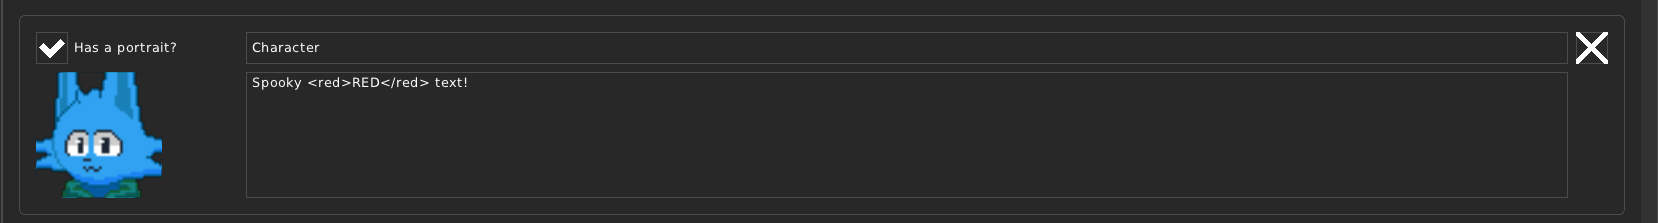
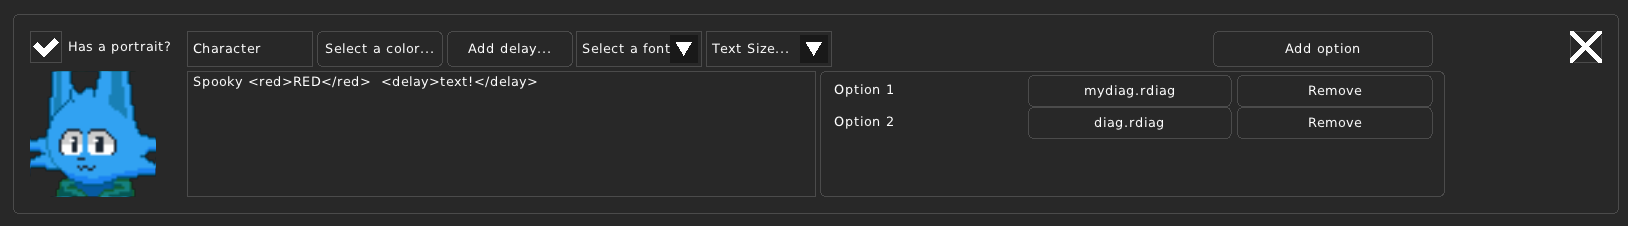
Documentation of new dialogue system additions and Project Settings additions

diff --git a/src/dialogueBalloon.cpp b/src/dialogueBalloon.cpp
@@ -140,28 +140,6 @@ void DialogueBalloon::draw() {
 
 		DrawTextureNPatch(uiTexture, info, rect, origin, 0.0f, WHITE);
 
-		if (finishedTyping && dialogue.lines.at(lineIndex).hasOptions) {
-			auto &line = dialogue.lines.at(lineIndex);
-
-			DrawTextureNPatch(uiTexture, info, optionsRect, origin, 0.0f, WHITE);
-
-			Vector2 optionTextPos = {optionsRect.x + 20, optionsRect.y + 20};
-			int i = 0;
-
-			for (auto &option : line.options) {
-				optionTextPos.y += (13 * 3) * i + (4 * i);
-
-				Color optionTextColor = WHITE;
-
-				if (hoveredOption == i) optionTextColor = YELLOW;
-
-				DrawTextEx(Game::getResources().getFont("LanaPixel"), option.title.c_str(), optionTextPos, 13 * 3, 1.0,
-						   optionTextColor);
-
-				i++;
-			}
-		}
-
 		if (dialogue.lines.at(lineIndex).hasPortrait) {
 			drawPortrait();
 		}
@@ -226,6 +204,28 @@ void DialogueBalloon::draw() {
 			Vector2 newMeasure = MeasureTextEx(Game::getResources().getFont(section.font),
 											   TextSubtext(text.c_str(), i, 1), section.textSize * 3, 1.0f);
 			charMeasure = newMeasure;
+		}
+
+		if (finishedTyping && dialogue.lines.at(lineIndex).hasOptions) {
+			auto &line = dialogue.lines.at(lineIndex);
+
+			DrawTextureNPatch(uiTexture, info, optionsRect, origin, 0.0f, WHITE);
+
+			Vector2 optionTextPos = {optionsRect.x + 20, optionsRect.y + 20};
+			int i = 0;
+
+			for (auto &option : line.options) {
+				optionTextPos.y += (13 * 3) * i + (4 * i);
+
+				Color optionTextColor = WHITE;
+
+				if (hoveredOption == i) optionTextColor = YELLOW;
+
+				DrawTextEx(Game::getResources().getFont("LanaPixel"), option.title.c_str(), optionTextPos, 13 * 3, 1.0,
+						   optionTextColor);
+
+				i++;
+			}
 		}
 	}
 }

diff --git a/docs/guide/resourcetypes/dialogue.rst b/docs/guide/resourcetypes/dialogue.rst
@@ -12,25 +12,34 @@ Example of a Dialogue file (.rdiag):
 .. code:: json
 
     {
-        "diag": [
-            [
-                "Xenith",
-                "I changed the dialogue!",
-                "0",
-                ""
-            ],
-            [
-                "Xenith",
-                "This is the second line!",
-                "0",
-                ""
-            ],
-            [
-                "Xenith",
-                "Content",
-                "0",
-                ""
-            ]
+        "diag":[
+            {
+                "characterName":"Chara",
+                "hasOptions":false,
+                "hasPortrait":false,
+                "imageId":"",
+                "options":[
+                    
+                ],
+                "text":"My dialogue <red>text!</red>"
+            },
+            {
+                "characterName":"Character",
+                "hasOptions":true,
+                "hasPortrait":true,
+                "imageId":"xenith-portrait.png",
+                "options":[
+                    {
+                        "name":"Option 1",
+                        "nextDialogue":"mydiag.rdiag"
+                    },
+                    {
+                        "name":"Option 2",
+                        "nextDialogue":"diag.rdiag"
+                    }
+                ],
+                "text":"Spooky <red>RED</red> text!"
+            }
         ]
     }
 
@@ -55,7 +64,23 @@ The "Add a new line" button will add a new line to this Dialogue.
 
 The "Has a portrait?" option sets whether this line will have a portrait image shown for it. If it is on, then you can select an image to be shown.
 
-You can also edit the Character name and the text content for the dialogue line. 
+You can also edit the Character name and the text content for the dialogue line. Dialogue text supports XML-like tags for formatting the text or achieving other effects. All tags must have a closing tag.
+
+* **Color tags:** - <lightgray>, <gray>, <darkgray>, <gold>, <yellow>, <orange>, <pink>, <red>, <maroon>, <green>, <lime>, <darkgreen>, <skyblue>, <blue>, <darkblue>, <purple>, <violet>, <darkpurple>, <beige>, <brown>, <darkbrown>, <magenta>, <white>, <black>
+
+* **<delay>** - Adds a delay in the typewriter effect in the dialogue UI.
+
+* **<textSize size="int">** - Changes the size of the text. It has one property *size* which is to be set to a number. Example usage: ``<textSize size="16">my text!</textSize>``
+
+* **<font>** - Changes the font of the written text. Example: ``<font font="LanaPixel">My text!</font>``
+
+* **<padding>** - Gives the written text a padding. It can be either in pixels of percentage of the dialogue box.
+    * Example for pixels: ``<padding px="20">Padded text in pixels</padding>``
+    * Example for percentage: ``<padding percent="20">Padded text in percentage</padding>``
+
+* **<sound>** - Plays a different sound while typing out this text. Example: ``<sound id="sheep">Baa!</sound>``
+
+* **<nl>** - Positions the text on a new line. Example: ``<nl>text</nl>``
 
 The 'X' button deletes this line.
 

diff --git a/docs/guide/projectsettings.rst b/docs/guide/projectsettings.rst
@@ -14,15 +14,17 @@ There are two categories in Project Settings:
 
     * **Title** - The Window's title.
 
-    * **Version** - Version of the game.
-
     * **Program Icon** - The icon of the window.
+
+    * **Version** - Version of the game.
 
     * **Window Width** - Width of the window.
 
     * **Window Height** - Height of the window.
 
     * **Is Window Resizeable** - Whether the window will be resizeable.
+
+    * **Window Mode** - windowed, exclusive, minimized, maximized, fullscreen.
 
     * **Target FPS** - The frames per second that will be targeted.
 
@@ -35,3 +37,5 @@ There are two categories in Project Settings:
     * **Player Actor** - The Actor file which will be used for the Player's appearance.
 
     * **Tile Size** - The tile size in maps.
+
+    * **Debug Draw** - Drawing objects like collision boxes and etc.
